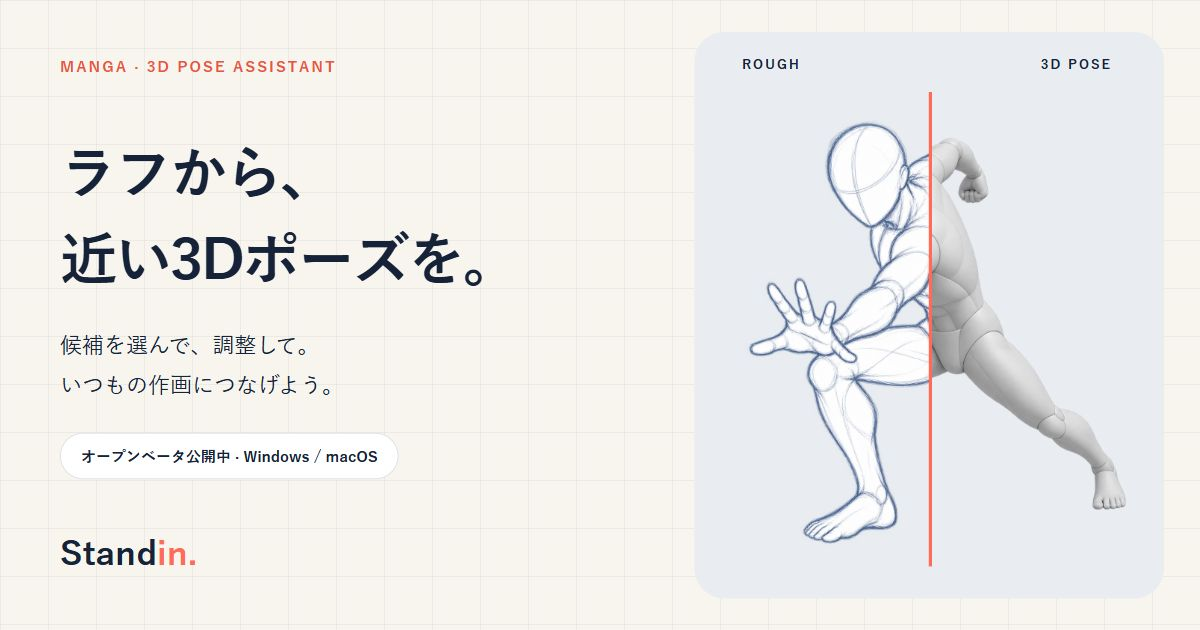
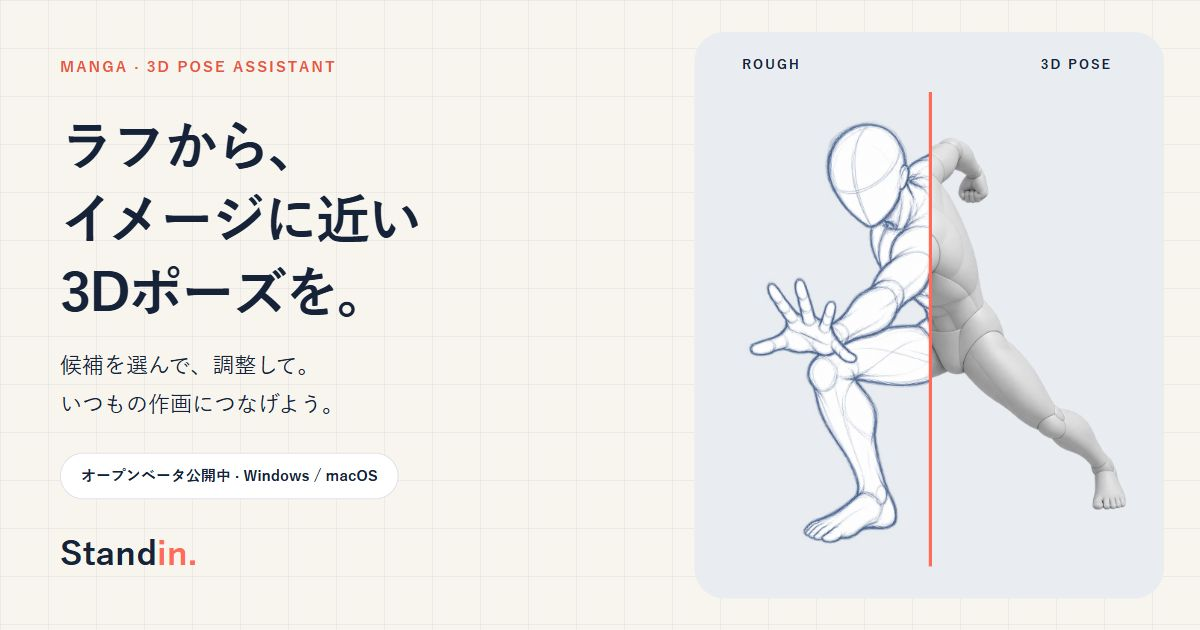
fix: polish Japanese landing copy (#44)

Changed region(s): [[0.0308, 0.181, 0.4008, 0.6635], [0.0617, 0.6937, 0.3083, 0.7841]]

diff --git a/src/i18n/landing-ja.ts b/src/i18n/landing-ja.ts
@@ -9,7 +9,7 @@ export const japaneseLanding: LandingContent = {
     { label: "新機能", href: "#features" },
   ] },
   hero: { ...hero,
-    title: "Standin — ラフから、近い3Dポーズを。",
+    title: "Standin — ラフから、イメージに近い3Dポーズを。",
     body: "ラフにカーソルを合わせて、3Dモデルのポーズと見比べてみましょう。",
     primaryCta: "ベータ版をダウンロード", primaryHref: "/ja/#beta",
     secondaryCta: "使い方を見る",
@@ -19,12 +19,12 @@ export const japaneseLanding: LandingContent = {
     input: { ...flow.input, title: "ラフや参考画像を入力。",
       body: "人物の姿勢がわかるネーム、ラフ、参考画像を入力します。シンプルなラフも認識しやすくなるよう改善しました。文章でポーズを探す機能もあります。",
       modes: ["ラフ・参考画像をキャプチャ", "文章でポーズを検索"] },
-    process: { ...flow.process, title: "近い3Dポーズを、候補から。",
+    process: { ...flow.process, title: "候補を比べて、イメージに近いポーズを。",
       body: "画像の人物の姿勢をもとに、近い3Dポーズを探します。結果を自動で決めるのではなく、候補を見比べて自分で選べます。",
       steps: ["画像を確認", "近いポーズを検索", "候補を比較"],
       mediaLabel: "バレーボールのラフと5つのポーズ候補を比較する操作例です。背景は韓国語の画面です。" },
     result: { ...flow.result, title: "選んだポーズを、CLIP STUDIO PAINTへ。",
-      body: "近い3Dモデルを選び、必要な部分を調整。書き出した結果を、いつもの作画に活用できます。" },
+      body: "イメージに近いポーズを選び、必要な部分を調整。書き出した結果を、いつもの作画に活用できます。" },
   },
   beta: { ...beta,
     title: "Standinを試してみませんか。",
@@ -32,23 +32,23 @@ export const japaneseLanding: LandingContent = {
     perkLabel: "オープンベータ参加者全員", perk: "正式リリース後、1か月無料",
     updatesLabel: "オープンベータの新機能",
     updates: [
-      { title: "文章でポーズ検索", body: "欲しい姿勢を文章で入力して、近い3Dポーズ候補を探せます。", upcoming: false },
+      { title: "文章でポーズ検索", body: "探したいポーズを文章で入力して、近い3Dポーズ候補を探せます。", upcoming: false },
       { title: "ラフの認識を改善", body: "シンプルなラフも認識しやすくなるよう改善しました。", upcoming: false },
       { title: "体型の手動調整・ラフに合わせた自動調整", body: "身長・頭身・肩幅・手足の比率を調整したり、ラフに合わせた体型から始めたりできます。", upcoming: false },
     ],
     badges: { added: "利用可能", upcoming: "公開予定" },
     note: "Windows・macOS向けのデスクトップアプリです。ダウンロードや利用にアンケートへの回答は必要ありません。",
   },
-  footer: { ...footer, tagline: "Standinは、ラフ・参考画像や文章から近い3D人体ポーズを探せる、Windows・macOS向けのマンガ制作補助アプリです。候補を自分で選んで調整し、CLIP STUDIO PAINTで作画を続けられます。" },
+  footer: { ...footer, tagline: "Standinは、ラフ・参考画像や文章をもとに、イメージに近い3Dポーズを探せる、Windows・macOS向けのマンガ制作サポートアプリです。候補を選んで調整し、CLIP STUDIO PAINTでの作画に活用できます。" },
   faqItems: [
-    { id: "what-is-standin", question: "Standinはどんなツールですか？", answer: "Standinは、ラフ・参考画像や文章から近い3D人体ポーズを探せる、Windows・macOS向けのマンガ制作補助アプリです。候補を自分で選んで調整し、CLIP STUDIO PAINTで作画を続けられます。" },
+    { id: "what-is-standin", question: "Standinはどんなツールですか？", answer: "Standinは、ラフ・参考画像や文章をもとに、イメージに近い3Dポーズを探せる、Windows・macOS向けのマンガ制作サポートアプリです。候補を選んで調整し、CLIP STUDIO PAINTでの作画に活用できます。" },
     { id: "image-input", question: "ラフから3Dポーズを探すには？", answer: "人物の姿勢がわかるラフや参考画像を入力すると、近い3Dポーズ候補を比較できます。胴体や手足の向きを見て、コマの演出に合う候補を選んでください。結果は画像の描き方やポーズライブラリによって変わります。", relatedLink: { label: "ラフの準備と候補の選び方（韓国語）", href: "/guides/rough-to-3d-pose/#prepare-image" } },
-    { id: "text-search", question: "文章でもポーズを検索できますか？", answer: "はい。欲しい姿勢を文章で入力し、近い3Dポーズ候補を探す機能があります。候補を見比べて選び、必要な部分を調整して使います。日本語の検索文での動作・精度は検証中です。", relatedLink: { label: "文章検索の使い方（韓国語）", href: "/guides/rough-to-3d-pose/#text-search" } },
-    { id: "clip-studio-workflow", question: "選んだポーズをCLIP STUDIO PAINTで使うには？", answer: "Standinの保存画面で書き出したファイルを確認してから、CLIP STUDIO PAINTに読み込みます。FBXはエクスプローラーやFinderからキャンバスへドラッグできます。BVHはPRO・EX 3.1.0以降で3Dデッサン人形を選び、ファイルの3Dデータ読み込みから適用します。読み込み後は大きさ・向き・構図を確認して調整してください。", relatedLink: { label: "読み込みの手順（韓国語）", href: "/guides/clip-studio-pose-import/#select-pose" }, sourceLink: { label: "CLIP STUDIO公式マニュアル（英語）", href: "https://help.clip-studio.com/en-us/manual_en/660_3d/Importing_3D_Files.htm" } },
-    { id: "auto-complete", question: "絵を自動で完成させるツールですか？", answer: "いいえ。Standinはネームやラフに近い3D人体ポーズの候補を提案します。最終的な選択・調整・作画は作者自身が行います。" },
-    { id: "best-cuts", question: "どんなコマで役立ちますか？", answer: "現在は人体の比率や構図が重要な全身・半身のコマを中心に対応しています。頭部や胸像のコマでも使えるよう改善を進めています。" },
+    { id: "text-search", question: "文章でもポーズを検索できますか？", answer: "はい。探したいポーズを文章で入力し、近い3Dポーズ候補を探す機能があります。候補を見比べて選び、必要な部分を調整して使います。日本語の検索文での動作・精度は検証中です。", relatedLink: { label: "文章検索の使い方（韓国語）", href: "/guides/rough-to-3d-pose/#text-search" } },
+    { id: "clip-studio-workflow", question: "選んだポーズをCLIP STUDIO PAINTで使うには？", answer: "Standinの保存画面で書き出したファイルを確認してから、CLIP STUDIO PAINTに読み込みます。FBXはエクスプローラーやFinderからキャンバスへドラッグできます。BVHはPRO・EX 3.1.0以降で3Dデッサン人形を選び、［ファイル］→［読み込み］→［3Dデータ］から読み込んで適用します。読み込み後は大きさ・向き・構図を確認して調整してください。", relatedLink: { label: "読み込みの手順（韓国語）", href: "/guides/clip-studio-pose-import/#select-pose" }, sourceLink: { label: "CLIP STUDIO公式マニュアル（日本語）", href: "https://help.clip-studio.com/ja-jp/manual_jp/660_3d/3Dファイルを読み込む.htm" } },
+    { id: "auto-complete", question: "絵を自動で完成させるツールですか？", answer: "いいえ。Standinはネームやラフに描かれた姿勢に近い3Dポーズの候補を提案します。最終的な選択・調整・作画は作者自身が行います。" },
+    { id: "best-cuts", question: "どんなコマで役立ちますか？", answer: "現在は人体の比率や構図が重要な全身・半身のコマを中心に対応しています。顔のアップやバストアップのコマでも使えるよう改善を進めています。" },
     { id: "no-match", question: "ポーズがぴったり合わないときは？", answer: "近い候補を出発点に、姿勢や向きを自分で調整してください。使える候補がない場合は、手動でポーズを作る方法もご検討ください。すべてのラフに完全に一致する結果を保証するものではありません。", relatedLink: { label: "ポーズと遠近感の確認（韓国語）", href: "/guides/clip-studio-pose-import/#perspective" } },
-    { id: "plugin", question: "CLIP STUDIO PAINTのプラグインですか？", answer: "StandinはCLIP STUDIO PAINTの公式プラグインや公式提携サービスではありません。アプリの外で3Dポーズの選択を補助し、いつもの作画につなぐ独立したツールです。", relatedLink: { label: "それぞれのツールの役割（韓国語）", href: "/guides/clip-studio-pose-import/#roles" } },
+    { id: "plugin", question: "CLIP STUDIO PAINTのプラグインですか？", answer: "StandinはCLIP STUDIO PAINTの公式プラグインや公式提携サービスではありません。CLIP STUDIO PAINTとは別に動作し、3Dポーズ選びをサポートする独立したツールです。", relatedLink: { label: "それぞれのツールの役割（韓国語）", href: "/guides/clip-studio-pose-import/#roles" } },
     { id: "multi-figure", question: "複数の人物がいるコマにも使えますか？", answer: "初期バージョンは1〜2人の比較的シンプルな全身・半身の場面を優先しています。人物が複雑に重なったり絡み合ったりする場面では、手動の調整が必要になる場合があります。" },
     { id: "body-type", question: "キャラクターに合わせて体型を変えられますか？", answer: "はい。身長・頭身・肩幅・手足の比率などを手動で調整して保存できます。ラフに合わせた自動調整の結果を確認してから、必要な部分を整えることもできます。オープンベータで利用可能です。" },
     { id: "supported-platforms", question: "WindowsとmacOSで使えますか？", answer: "Windows向けの.exeと、Apple Silicon・Intel共用のmacOS向け.dmgを提供しています。Macではアプリをアプリケーションフォルダに移してから起動してください。モバイル・タブレット向けアプリは含まれていません。", relatedLink: { label: "インストーラーをダウンロード", href: "#beta" } },
@@ -56,6 +56,6 @@ export const japaneseLanding: LandingContent = {
     { id: "export-formats", question: "FBXとBVHの書き出しはどう違いますか？", answer: "保存画面に表示されるFBXまたはBVH形式で書き出します。利用できる形式はサーバーの対応状況によります。FBXが利用できずBVHで保存した場合、体型や手の形は含まれず、動作のみが保存されます。BVHの読み込みにはCLIP STUDIO PAINT PRO・EX 3.1.0以降が必要です。体型・手・カメラがすべて同じ状態で引き継がれる保証はないため、読み込み結果を確認してください。", relatedLink: { label: "形式と対応バージョン（韓国語）", href: "/guides/clip-studio-pose-import/#file-formats" }, sourceLink: { label: "CLIP STUDIO公式3.1.0更新履歴（英語）", href: "https://www.clipstudio.net/en/dl/release_note/v3/" } },
     { id: "unpublished-artwork", question: "未公開の原稿を入力する前に確認することは？", answer: "処理の目的・保存期間・外部AIへの送信・削除方法を確認してください。公開中のプライバシーポリシーは検討用プレビューで、未適用の方針や確認が必要な項目を含みます。最終版の方針とアプリ内の同意案内を確認し、不明な点はstandin.asm@gmail.comまでお問い合わせください。", relatedLink: { label: "プライバシーポリシー検討用プレビュー（韓国語）", href: "/legal/privacy/" } },
     { id: "commercial-use", question: "ポーズを参考にした作品を商用利用できますか？", answer: "Standinが商用利用の権利を確保して提供する素材は、そのライセンスの範囲内で完成したマンガ・イラストの商用利用に活用できます。ポーズ・モデル・出力ファイルそのものの再販売や公開再配布は含まれません。第三者素材の条件や共同制作者へのファイル共有条件は、コンテンツライセンスをご確認ください。", relatedLink: { label: "コンテンツライセンス（韓国語）", href: "/legal/content-license/" } },
-    { id: "availability", question: "今すぐ試せますか？", answer: "Windows・macOS用のインストーラーをダウンロードして、オープンベータに参加できます。事前登録やアンケートへの回答は必須ではありません。アプリ・アカウント登録・認証メールは現在韓国語が中心です。日本語化はまずこの紹介ページから進めています。", relatedLink: { label: "ダウンロードと利用案内", href: "#beta" } },
+    { id: "availability", question: "今すぐ試せますか？", answer: "Windows・macOS用のインストーラーをダウンロードして、オープンベータに参加できます。事前登録やアンケートへの回答は必須ではありません。アプリ・アカウント登録・認証メールは現在韓国語が中心です。日本語対応は、まずこの紹介ページから順次進めています。", relatedLink: { label: "ダウンロードと利用案内", href: "#beta" } },
   ],
 };

diff --git a/src/i18n/messages-ja.ts b/src/i18n/messages-ja.ts
@@ -27,7 +27,7 @@ export const japaneseMessages: Record<string, string> = {
   "허리를 뒤로 젖히고 두 팔을 펼친 역동적인 공중 포즈": "上体を反らし、両腕を広げた躍動感のある空中ポーズ",
   "Clip Studio에서 이어서 작업": "CLIP STUDIO PAINTで作画を続ける",
   "Standin에서 선택한 3D 포즈를 작화 캔버스로 가져오는 흐름": "選んだ3Dポーズをキャンバスへ読み込む流れを試せます",
-  "{0} 포즈로 이동": "{0}のポーズへ",
+  "{0} 포즈로 이동": "{0}を表示",
   "{0}. 눌러서 3D 인형을 확인합니다.": "{0}。タップして3Dモデルを表示します。",
   "{0}. 마우스를 움직여 3D 인형을 확인하고 클릭하면 작업 화면으로 이동합니다.": "{0}。カーソルを合わせて3Dモデルを確認し、クリックで作業画面のデモを開きます。",
   "{0}를 파란 선으로 그린 인체 러프": "青い線で描いた人体のラフ：{0}",
@@ -75,7 +75,7 @@ export const japaneseMessages: Record<string, string> = {
   "문장 검색 시연 예시 · 빈 클립스튜디오 캔버스에서 시작": "文章検索の操作例：空のキャンバスから候補を検索（韓国語画面）",
   "내 캐릭터의 비율로,\n직접 체형을 다듬으세요.": "自分のキャラクターに\n体型を合わせよう。",
   "Standin의 체형 커스텀에서 시작 체형을 고르고, 키·등신·어깨와 팔다리 비율을 조절하세요. 이름을 붙여 저장하면 내 체형 목록에서 다시 사용할 수 있어요.": "基本の体型を選び、身長・頭身・肩幅・手足の比率を調整できます。名前を付けて保存すれば、体型一覧から再利用できます。",
-  "시작 체형 선택": "基本の体型を選択", "비율을 직접 조절": "比率を手動で調整", "내 체형으로 저장": "自分の体型として保存",
+  "시작 체형 선택": "基本の体型を選択", "비율을 직접 조절": "比率を手動で調整", "내 체형으로 저장": "作成した体型を保存",
   "체형 변경 기능 구현 완료 · 오픈베타에서 제공됩니다.": "体型調整機能はオープンベータで利用できます。",
   "Standin 앱 실제 사용 화면 · 체형 조절부터 저장까지": "実際のアプリ画面：体型を調整して保存（韓国語画面）",
   "러프에 맞는 체형에서\n바로 시작하세요.": "ラフに合う体型から\n始めよう。",
@@ -103,7 +103,7 @@ export const japaneseMessages: Record<string, string> = {
   "앱이 열리지 않으면 설치한 Standin을 직접 실행하세요.": "アプリが開かない場合は、インストールしたStandinを起動してください。",
   "광고·앱 이용 연결 안내": "広告とアプリ利用の連携について（韓国語）",
   "최신 버전 확인이 지연되고 있습니다. 위 버튼으로 확인된 공개 버전을 받을 수 있습니다.": "最新版の確認に時間がかかっています。上のボタンから確認済みの公開版をダウンロードできます。",
-  "설치 파일 다시 불러오기": "インストーラーを再取得", "다운로드 문의": "ダウンロードのお問い合わせ",
+  "설치 파일 다시 불러오기": "ダウンロード情報を再読み込み", "다운로드 문의": "ダウンロードのお問い合わせ",
   "설치 후 Clip Studio에 적용하는 방법": "CLIP STUDIO PAINTでの使い方（韓国語）",
   "사용 중 막힌 점이나 활용한 경험을 알려주세요.": "困った点や、使ってみた感想をお聞かせください。",
   "오픈베타 설문 작성": "アンケートに回答（韓国語）",

diff --git a/ja/index.html b/ja/index.html
@@ -4,15 +4,15 @@
     <meta charset="UTF-8" />
     <link rel="icon" type="image/svg+xml" href="/favicon.svg?v=s-20261019" />
     <meta name="viewport" content="width=device-width, initial-scale=1.0" />
-    <title>Standin — ラフから、近い3Dポーズを。</title>
+    <title>Standin — ラフから、イメージに近い3Dポーズを。</title>
     <meta
       name="description"
-      content="ラフや参考画像から近い3Dポーズを探し、CLIP STUDIO PAINTでの作画に活用できます。"
+      content="ラフや参考画像をもとに、イメージに近い3Dポーズを探し、CLIP STUDIO PAINTでの作画に活用できます。"
     />
-    <meta property="og:title" content="Standin — ラフから、近い3Dポーズを。" />
+    <meta property="og:title" content="Standin — ラフから、イメージに近い3Dポーズを。" />
     <meta
       property="og:description"
-      content="ラフや参考画像から近い3Dポーズを探し、CLIP STUDIO PAINTでの作画に活用できます。"
+      content="ラフや参考画像をもとに、イメージに近い3Dポーズを探し、CLIP STUDIO PAINTでの作画に活用できます。"
     />
     <meta property="og:type" content="website" />
     <meta property="og:locale" content="ja_JP" />
@@ -23,18 +23,18 @@
     <meta property="og:image:height" content="630" />
     <meta
       property="og:image:alt"
-      content="ラフから近い3Dポーズを探すStandinの紹介"
+      content="ラフをもとにイメージに近い3Dポーズを探すStandinの紹介"
     />
     <meta name="twitter:card" content="summary_large_image" />
-    <meta name="twitter:title" content="Standin — ラフから、近い3Dポーズを。" />
+    <meta name="twitter:title" content="Standin — ラフから、イメージに近い3Dポーズを。" />
     <meta
       name="twitter:description"
-      content="ラフや参考画像から近い3Dポーズを探し、CLIP STUDIO PAINTでの作画に活用できます。"
+      content="ラフや参考画像をもとに、イメージに近い3Dポーズを探し、CLIP STUDIO PAINTでの作画に活用できます。"
     />
     <meta name="twitter:image" content="https://www.standinpose.com/standin-social-card-ja.png" />
     <meta
       name="twitter:image:alt"
-      content="ラフから近い3Dポーズを探すStandinの紹介"
+      content="ラフをもとにイメージに近い3Dポーズを探すStandinの紹介"
     />
     <link rel="canonical" href="https://www.standinpose.com/ja/" />
     <meta property="og:url" content="https://www.standinpose.com/ja/" />

diff --git a/docs/assets/social-card-ja.html b/docs/assets/social-card-ja.html
@@ -8,7 +8,7 @@
 body { margin: 0; width: 1200px; height: 630px; color: #152238; font-family: "Yu Gothic", "Hiragino Kaku Gothic ProN", Meiryo, sans-serif; }
 main { position: relative; width: 1200px; height: 630px; overflow: hidden; background-color: #f8f5ef; background-image: linear-gradient(#1522380c 1px, transparent 1px), linear-gradient(90deg, #1522380c 1px, transparent 1px); background-size: 48px 48px; padding: 54px 60px; }
 .eyebrow { font: 700 15px sans-serif; letter-spacing: 2px; color: #e95543; }
-h1 { font-size: 57px; letter-spacing: -2px; line-height: 1.5; margin: 54px 0 22px; }
+h1 { font-size: 54px; letter-spacing: -2px; line-height: 1.35; margin: 32px 0 16px; }
 p { font-size: 22px; line-height: 1.8; margin: 0; font-weight: 500; }
 .badge { display: inline-block; margin-top: 28px; border: 1px solid #d8dde5; border-radius: 24px; padding: 10px 20px; background: #fff; font-size: 15px; font-weight: 700; }
 .brand { position: absolute; bottom: 48px; left: 60px; font: 800 34px sans-serif; }
@@ -23,7 +23,7 @@ p { font-size: 22px; line-height: 1.8; margin: 0; font-weight: 500; }
 </style>
 <main>
   <div class="eyebrow">MANGA · 3D POSE ASSISTANT</div>
-  <h1>ラフから、<br>近い3Dポーズを。</h1>
+  <h1>ラフから、<br>イメージに近い<br>3Dポーズを。</h1>
   <p>候補を選んで、調整して。<br>いつもの作画につなげよう。</p>
   <div class="badge">オープンベータ公開中 · Windows / macOS</div>
   <div class="brand">Stand<span>in.</span></div>

diff --git a/src/components/common/Downloads.tsx b/src/components/common/Downloads.tsx
@@ -54,7 +54,7 @@ export function Downloads() {
     <p className="mt-3 text-sm leading-relaxed text-neutral-600">{t("컴퓨터의 운영체제에 맞는 설치 파일을 선택하세요.")}</p>
     {locale === "ja" && <aside className="locale-availability" aria-label="対応言語と利用の流れ">
       <p className="font-semibold">アプリ・登録画面は現在韓国語が中心です。</p>
-      <p>日本語化はこの紹介ページから進めています。インストール後、アカウントを作成し、認証メールのリンクで確認してからログインしてください。日本語での文章検索は動作・精度を検証中です。</p>
+      <p>日本語対応は、この紹介ページから順次進めています。インストール後にアカウントを作成し、確認メール内のリンクからメールアドレスの認証を済ませてからログインしてください。日本語によるポーズ検索の動作と精度は現在検証中です。</p>
       <a href="/signup/" hrefLang="ko" className="underline underline-offset-4">アカウント作成（韓国語）</a>
     </aside>}
     <div className="mt-4 rounded-xl bg-neutral-100 p-4 text-sm leading-relaxed">

diff --git a/src/entry-server.tsx b/src/entry-server.tsx
@@ -19,7 +19,7 @@ export const prerenderPaths = [...publicPaths, ...legalPaths];
 export function render(path: string) {
   const locale = localeFromPath(path);
   const { beta, footer, hero, faqItems } = landingContent(locale);
-  const modifiedAt = locale === "ja" ? "2026-11-05" : site.modifiedAt;
+  const modifiedAt = locale === "ja" ? "2026-11-06" : site.modifiedAt;
   const guide = guides.find((item) => guidePath(item) === path);
   const legal = legalDocuments.find((item) => legalPath(item) === path);
   if (path !== "/" && path !== "/ja/" && !guide && !legal) throw new Error(`Unknown public page: ${path}`);

diff --git a/src/components/sections/FaqSection.tsx b/src/components/sections/FaqSection.tsx
@@ -8,7 +8,7 @@ import { site } from "../../data/site";
 
 export function FaqSection() {
   const { t, locale } = useI18n();
-  const modifiedAt = locale === "ja" ? "2026-11-05" : site.modifiedAt;
+  const modifiedAt = locale === "ja" ? "2026-11-06" : site.modifiedAt;
   const { faqItems } = useLandingContent();
   useEffect(() => {
     const openLinkedAnswer = () => {
